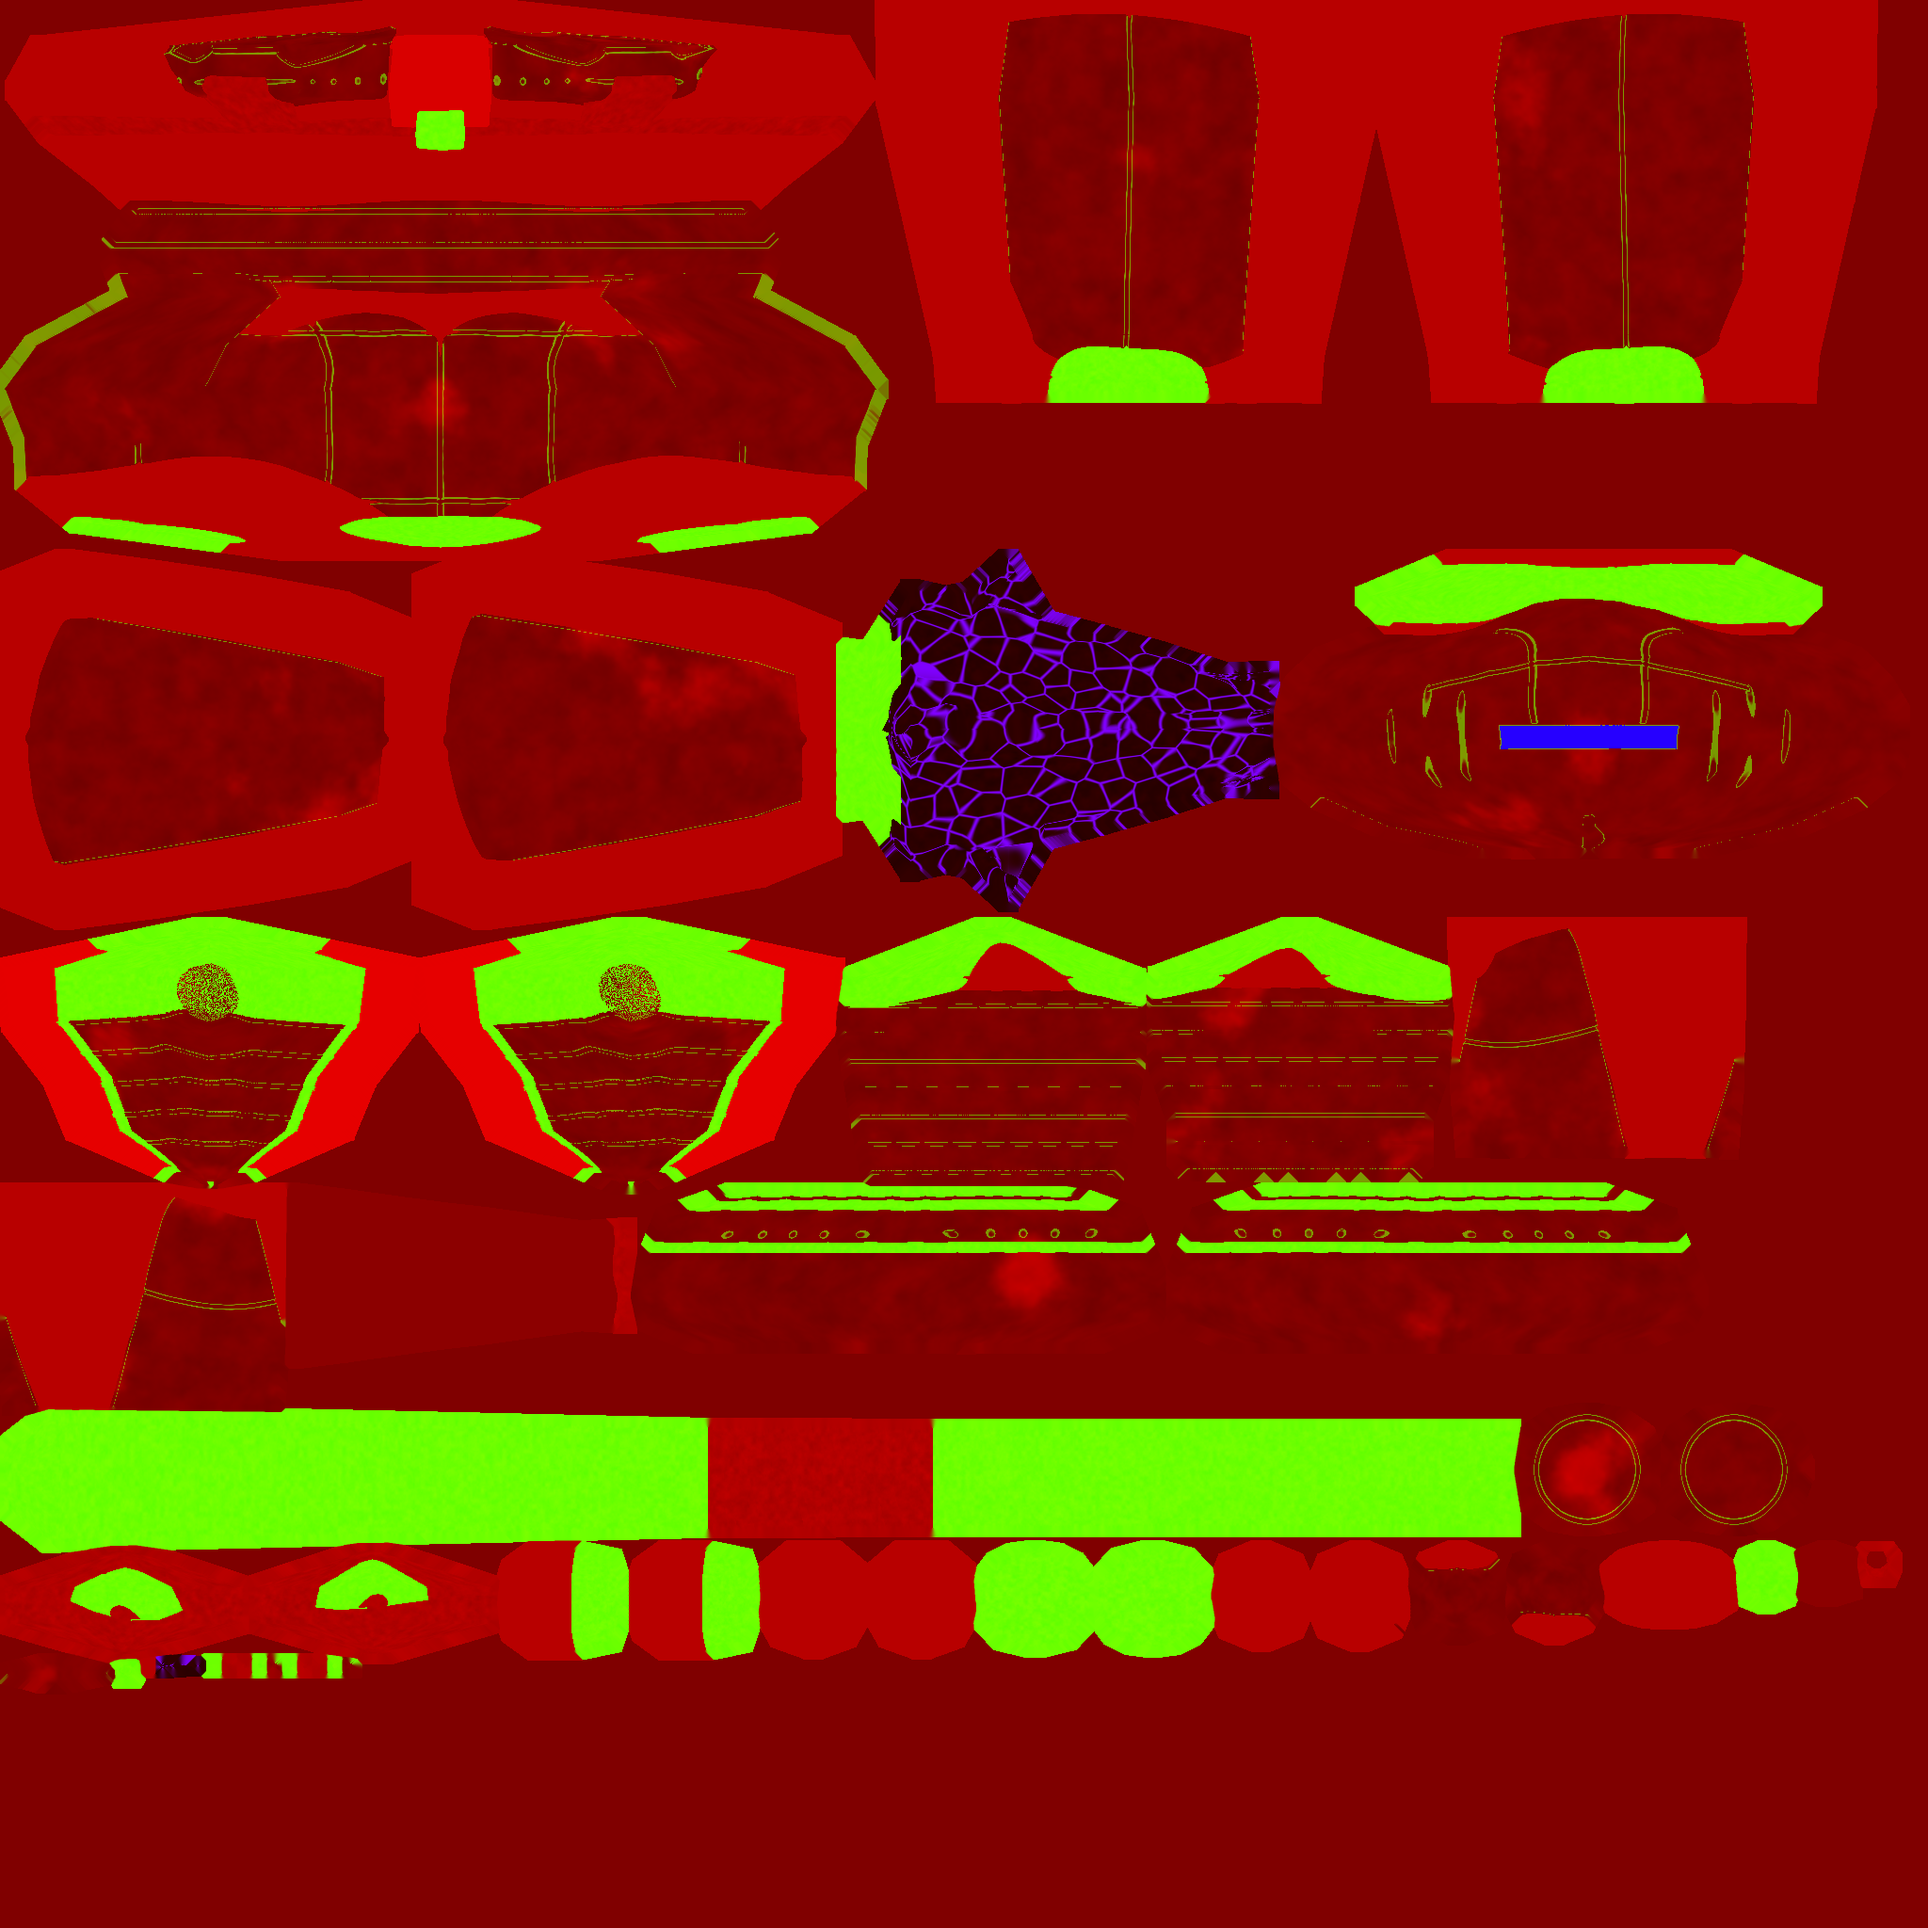
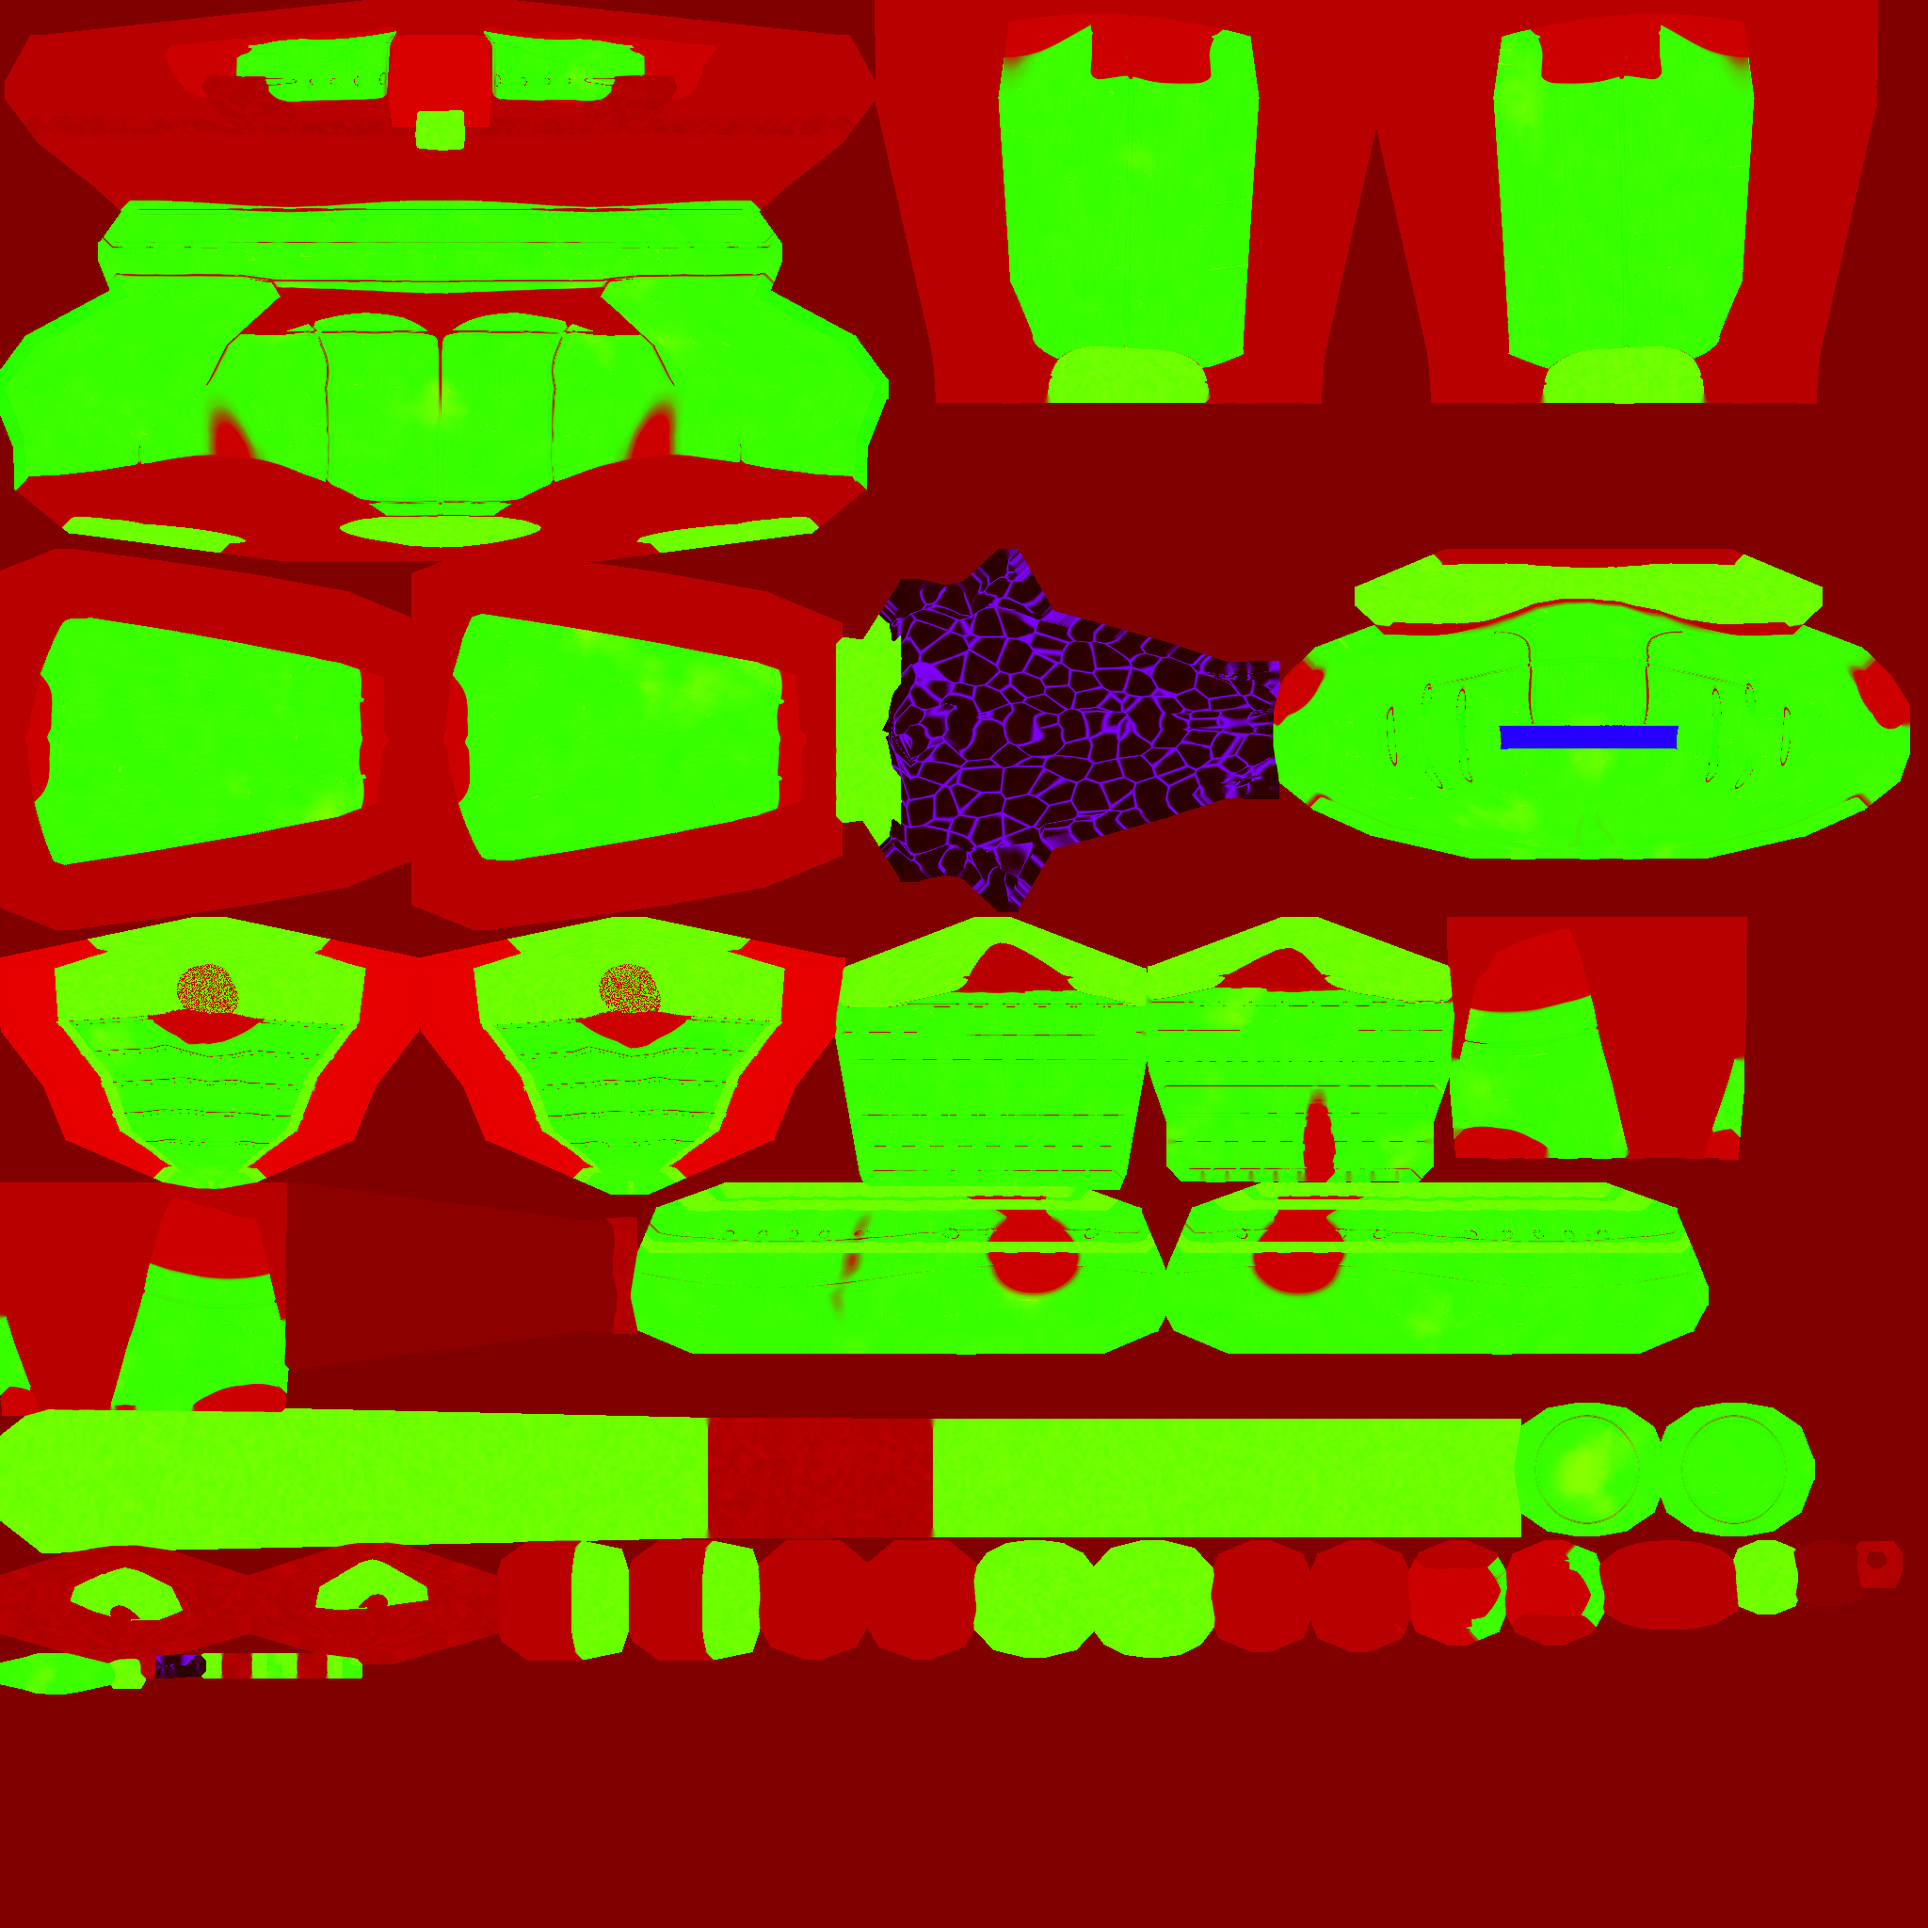
Warden armour: polished steel plate instead of ceramic; reflection environment for the player's metals
Claude-Session: https://claude.ai/code/session_012tW2o61okj8ExFspmsf1Sz

diff --git a/tools/bake/HeroBaker.java b/tools/bake/HeroBaker.java
@@ -9,7 +9,7 @@ import javax.imageio.ImageIO;
 /**
  * Offline high-to-low bake for the warden, an original armoured heroine (run on a desktop; results go into assets).
  *
- * 1. HIGH POLY: a part-based signed distance field with millimetre detail: a charcoal undersuit; bone-white ceramic
+ * 1. HIGH POLY: a part-based signed distance field with millimetre detail: a charcoal undersuit; polished steel
  *    plates (shaped breastplate, segmented abdomen, back plate with spine ridge, tassets, layered pauldrons, rerebraces,
  *    ribbed vambraces, cuisses, greaves, sabatons) with panel grooves and rivets; dark steel trim (gorget, elbow and
  *    knee cops, plate edges); a crested helmet with cheek guards and a glowing amber visor slit; a long braid; leather
@@ -273,13 +273,16 @@ public class HeroBaker {
         float r,g,b,rough,metal,emit=0;
         switch(m){
             case M_SUIT:{float n=fbm(x*300,y*300,z*300,3);float weave=((int)(x*900+z*900)&1)==0?.03f:0;r=.035f+n*.02f+weave*.3f;g=.036f+n*.02f+weave*.3f;b=.04f+n*.022f+weave*.3f;rough=.72f;metal=0;break;}
-            case M_ARMOR:{   // bone-white ceramic, grime in the seams, soot, chipped edges show dark under-layer
-                float n=fbm(x*40,y*40,z*40,4),soot=smooth(.58f,.82f,fbm(x*9+2,y*9,z*9,5)),chip=smooth(.6f,.95f,lap*.0012f+fbm(x*120,y*120,z*120,3)*.5f);
-                r=.56f-n*.06f;g=.52f-n*.06f;b=.44f-n*.05f;
-                r=mix(r,.12f,cav*.8f);g=mix(g,.1f,cav*.8f);b=mix(b,.08f,cav*.8f);
-                r=mix(r,.05f,soot*.7f);g=mix(g,.045f,soot*.7f);b=mix(b,.04f,soot*.7f);
-                r=mix(r,.07f,chip);g=mix(g,.07f,chip);b=mix(b,.075f,chip);
-                rough=.42f+n*.15f+soot*.25f;metal=chip*.6f;break;}
+            case M_ARMOR:{   // polished silver-steel plate: fine brushing, scratches, soot and grime in the seams, worn-bright edges
+                float n=fbm(x*40,y*40,z*40,4),soot=smooth(.6f,.85f,fbm(x*9+2,y*9,z*9,5)),edge=smooth(.6f,.95f,lap*.0012f+fbm(x*120,y*120,z*120,3)*.4f);
+                float brush=noise(x*900,y*900,z*30),scr=noise(x*20+z*300,y*300,z*20)>.94f?1:0;
+                r=.8f-n*.06f;g=.78f-n*.06f;b=.74f-n*.05f;
+                float k=.94f+brush*.08f;r*=k;g*=k;b*=k;
+                r=mix(r,.3f,soot*.6f);g=mix(g,.28f,soot*.6f);b=mix(b,.26f,soot*.6f);
+                r=mix(r,.92f,edge*.6f);g=mix(g,.91f,edge*.6f);b=mix(b,.9f,edge*.6f);
+                rough=.16f+n*.08f+brush*.05f+soot*.3f+scr*.18f-edge*.06f;metal=1;
+                if(cav>.25f){float c=smooth(.25f,.6f,cav);r=mix(r,.05f,c);g=mix(g,.045f,c);b=mix(b,.04f,c);rough=mix(rough,.8f,c);metal=mix(metal,0,c);}
+                break;}
             case M_TRIM:{float n=fbm(x*200,y*200,z*200,3);float wear=smooth(.55f,.9f,lap*.0012f+n*.4f);r=mix(.06f,.4f,wear);g=mix(.06f,.38f,wear);b=mix(.065f,.36f,wear);rough=.35f+n*.15f;metal=1;break;}
             case M_CLOTH:{float n=fbm(x*80,y*80,z*120,4);float th=((int)(y*1200)&1)==0?.04f:0;r=.32f+n*.08f+th;g=.03f+n*.015f;b=.03f+n*.015f;rough=.85f;metal=0;break;}
             case M_LEATHER:{float n=fbm(x*150,y*150,z*150,4);r=.11f+n*.05f;g=.065f+n*.03f;b=.04f+n*.02f;rough=.62f+n*.15f;metal=0;break;}

diff --git a/app/src/main/java/com/harlequin/slayer/Game.java b/app/src/main/java/com/harlequin/slayer/Game.java
@@ -235,7 +235,7 @@ final class Game implements GLSurfaceView.Renderer {
         GLES30.glUniform4fv(u(prog,"uL"),16,lights,0);GLES30.glUniform3fv(u(prog,"uLC"),16,lightCol,0);GLES30.glUniform1i(u(prog,"uLCount"),16);
         GLES30.glUniform3f(u(prog,"uCam"),eye[0],eye[1],eye[2]);GLES30.glUniform2i(u(prog,"uGrid"),level.W,level.H);
         GLES30.glUniform3f(u(prog,"uSky"),.035f,.03f,.03f);GLES30.glUniform3f(u(prog,"uGround"),.03f,.012f,.008f);
-        GLES30.glUniform4f(u(prog,"uFog"),.035f,.012f,.008f,.022f);GLES30.glUniform1f(u(prog,"uTime"),time);GLES30.glUniform1f(u(prog,"uExposure"),1.15f);GLES30.glUniform1f(u(prog,"uShadowK"),7f);
+        GLES30.glUniform4f(u(prog,"uFog"),.035f,.012f,.008f,.022f);GLES30.glUniform1f(u(prog,"uTime"),time);GLES30.glUniform1f(u(prog,"uExposure"),1.15f);GLES30.glUniform1f(u(prog,"uEnvK"),1f);GLES30.glUniform1f(u(prog,"uShadowK"),7f);
         GLES30.glUniform1i(u(prog,"uA"),0);GLES30.glUniform1i(u(prog,"uB"),1);GLES30.glUniform1i(u(prog,"uC"),2);GLES30.glUniform1i(u(prog,"uMask"),3);
         GLES30.glActiveTexture(GLES30.GL_TEXTURE3);GLES30.glBindTexture(GLES30.GL_TEXTURE_2D,maskTex);
         GLES30.glUniformMatrix4fv(u(prog,"uVP"),1,false,vp,0);
@@ -244,7 +244,7 @@ final class Game implements GLSurfaceView.Renderer {
             GLES30.glUniform2f(u(prog,"uUvScroll"),m==Tex.LAVA?time*.012f:0,m==Tex.LAVA?time*.007f:0);GLES30.glUniform1f(u(prog,"uPulse"),m==Tex.LAVA?1:0);
             levelMesh[m].draw();}
         GLES30.glUniform2f(u(prog,"uUvScroll"),0,0);GLES30.glUniform1f(u(prog,"uPulse"),0);
-        drawPlayer();
+        GLES30.glUniform1f(u(prog,"uEnvK"),5f);drawPlayer();GLES30.glUniform1f(u(prog,"uEnvK"),1f);
         // spent shells lying around
         for(Fx.Shell s:fx.shells){float[] Mx=M.mul(M.tr(s.x,s.y,s.z),M.mul(M.rz(s.yaw),M.mul(M.ry(s.pitch),M.rx(s.roll))));model(Mx);
             bindMat(Tex.SHELL,false);parts[Gun.P_HULL].draw();bindMat(Tex.BRASS,false);parts[Gun.P_BASE].draw();}

diff --git a/app/src/main/java/com/harlequin/slayer/Shaders.java b/app/src/main/java/com/harlequin/slayer/Shaders.java
@@ -24,7 +24,7 @@ final class Shaders {
         "#version 300 es\n"+
         "precision highp float;precision highp int;\n"+
         "uniform sampler2D uA;uniform sampler2D uB;uniform sampler2D uC;uniform sampler2D uMask;\n"+
-        "uniform vec3 uCam;uniform float uPom;uniform float uEmit;uniform float uTime;uniform float uExposure;\n"+
+        "uniform vec3 uCam;uniform float uPom;uniform float uEmit;uniform float uEnvK;uniform float uTime;uniform float uExposure;\n"+
         "uniform vec4 uL[16];uniform vec3 uLC[16];uniform int uLCount;uniform ivec2 uGrid;\n"+
         "uniform vec3 uSky;uniform vec3 uGround;uniform vec4 uFog;uniform float uPulse;uniform float uShadowK;\n"+
         "in vec3 vPos;in vec3 vN;in vec3 vT;in vec2 vUv;out vec4 fragColor;\n"+
@@ -73,7 +73,7 @@ final class Shaders {
         "  vec3 spec=D*G*F/(4.0*NdV*NdL+1e-4);vec3 kd=(1.0-F)*(1.0-metal);\n"+
         "  Lo+=(kd*albedo/PI+spec)*uLC[i]*fall*NdL*sh;}\n"+
         // ---- ambient: sky/ground hemisphere, rough reflection of it, occlusion
-        " vec3 hemi=mix(uGround,uSky,Nw.z*0.5+0.5);vec3 R=reflect(-V,Nw);vec3 env=mix(uGround,uSky,R.z*0.5+0.5);\n"+
+        " vec3 hemi=mix(uGround,uSky,Nw.z*0.5+0.5);vec3 R=reflect(-V,Nw);vec3 env=mix(uGround,uSky,R.z*0.5+0.5)*uEnvK+(uEnvK-1.0)*(vec3(0.06,0.03,0.018)*pow(1.0-abs(R.z),6.0)+vec3(0.05,0.022,0.01)*max(-R.z,0.0)+vec3(0.02,0.021,0.024)*max(R.z,0.0));\n"+
         " vec3 Fr=F0+(max(vec3(1.0-rough),F0)-F0)*pow(1.0-NdV,5.0);\n"+
         " vec3 amb=hemi*albedo*(1.0-metal)+env*Fr*(1.0-rough*0.7);\n"+
         " float cav=mix(1.0,0.55,surfDepth);\n"+
